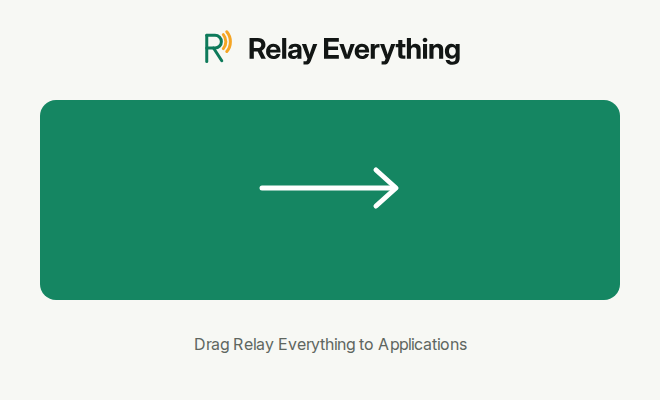
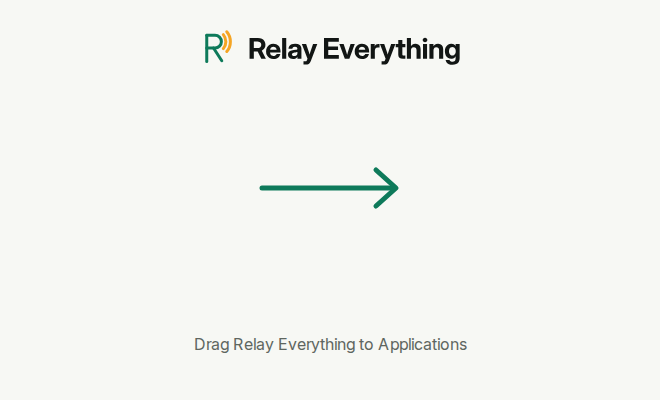
The Mac install window stays light paper with a green arrow, and a branch's test copy opens on a Mac

diff --git a/openspec/changes/mac-download-fix-and-installer/review.html b/openspec/changes/mac-download-fix-and-installer/review.html
@@ -485,7 +485,7 @@
   <rect x="452" y="98" width="140" height="8" rx="4" fill="#E3E6DF"/>
   <rect x="452" y="114" width="120" height="8" rx="4" fill="#E3E6DF"/>
 </svg></div></div><figcaption>Drawing</figcaption></figure></div></div></li>
-<li class="item card has-view" id="item-2"><div class="words"><span class="num">2</span><div class="body"><div class="text" data-note="item-2" tabindex="0"><b>The download opens as a Relay Everything window.</b> A fixed-size window with no toolbar or sidebar: the logo at the top, a deep emerald band with the app on the left, an arrow, and Applications on the right, and under it <i>Drag Relay Everything to Applications</i>. The names under the icons stay readable in light and dark mode. The disk shows the Relay Everything icon, not a plain white one. Its colors stay the same in dark mode: the picture is fixed, and only Finder's icon names change. No real picture: the disk image is made only on a Mac build machine, so this is a drawing of it.</div></div></div><div class="view"><div class="stage"><figure class="part" data-kind="draw"><div class="clip"><div class="art pic sketch" data-note="item-2-picture-1" tabindex="0" style="width:46.154em"><svg xmlns="http://www.w3.org/2000/svg" viewBox="0 0 600 364" width="600" height="364">
+<li class="item card has-view" id="item-2"><div class="words"><span class="num">2</span><div class="body"><div class="text" data-note="item-2" tabindex="0"><b>The download opens as a Relay Everything window.</b> A fixed-size window with no toolbar or sidebar: light paper with the logo at the top, the app on the left, a green arrow, and Applications on the right, and under them <i>Drag Relay Everything to Applications</i>. The names under the icons are black and easy to read in light and dark mode. The disk shows the Relay Everything icon, not a plain white one. Its colors stay the same in dark mode: the picture is fixed, and only Finder's icon names change. No real picture: the disk image is made only on a Mac build machine, so this is a drawing of it.</div></div></div><div class="view"><div class="stage"><figure class="part" data-kind="draw"><div class="clip"><div class="art pic sketch" data-note="item-2-picture-1" tabindex="0" style="width:46.154em"><svg xmlns="http://www.w3.org/2000/svg" viewBox="0 0 600 364" width="600" height="364">
 <g transform="scale(0.909)">
   <rect width="660" height="400" rx="12" fill="#F7F8F4"/>
   <g transform="translate(232 34) scale(0.75)" fill="none" stroke-linecap="round" stroke-linejoin="round" stroke-width="4">
@@ -493,14 +493,13 @@
     <path d="M36 12a10 10 0 0 1 0 12M40 8a16 16 0 0 1 0 20" stroke="#F5A524"/>
   </g>
   <text x="276" y="58" font-size="20" font-weight="700" fill="#121614">Relay Everything</text>
-  <rect x="40" y="100" width="580" height="200" rx="16" fill="#158662"/>
   <rect x="122" y="140" width="96" height="96" rx="22" fill="#0E7A5A"/>
   <text x="170" y="200" font-size="44" font-weight="700" fill="#FFFFFF" text-anchor="middle">R</text>
-  <text x="170" y="270" font-size="13" fill="#FFFFFF" text-anchor="middle">Relay Everything</text>
-  <path d="M262 188h120" stroke="#FFFFFF" stroke-width="5" stroke-linecap="round"/>
-  <path d="M372 172l18 16-18 16" fill="none" stroke="#FFFFFF" stroke-width="5" stroke-linecap="round" stroke-linejoin="round"/>
+  <text x="170" y="270" font-size="13" fill="#121614" text-anchor="middle">Relay Everything</text>
+  <path d="M262 188h120" stroke="#0E7A5A" stroke-width="5" stroke-linecap="round"/>
+  <path d="M372 172l18 16-18 16" fill="none" stroke="#0E7A5A" stroke-width="5" stroke-linecap="round" stroke-linejoin="round"/>
   <rect x="442" y="148" width="96" height="80" rx="10" fill="#6CB4EE"/>
-  <text x="490" y="270" font-size="13" fill="#FFFFFF" text-anchor="middle">Applications</text>
+  <text x="490" y="270" font-size="13" fill="#121614" text-anchor="middle">Applications</text>
   <text x="330" y="346" font-size="16" fill="#5E6660" text-anchor="middle">Drag Relay Everything to Applications</text>
 </g>
 </svg></div></div><figcaption>Drawing</figcaption></figure></div></div></li>
@@ -524,6 +523,9 @@
 <li class="decision card" id="decision-8" data-note="decision-8" tabindex="0"><p class="meta"><span class="tag assumed">assumed</span>2026-11-16</p>Assumed: the window is 660 by 428, not 660 by 400, because the second look found that Finder's window size counts the title bar, which would cut the bottom of the background. Task 3.2's screenshot confirms it.</li>
 <li class="decision card" id="decision-9" data-note="decision-9" tabindex="0"><p class="meta"><span class="tag log">log</span>2026-11-16</p>Saved for the Mac check: all tasks but 3.2 are done; the pull request's build makes the unsigned disk image that 3.2 checks on a Mac.</li>
 <li class="decision card" id="decision-10" data-note="decision-10" tabindex="0"><p class="meta"><span class="tag check">check</span>2026-11-16</p>Check: <code>.github/workflows/mobile-macos.yml</code> changes the Mac build's steps but loosens no check: dmgbuild replaces <code>hdiutil create</code>, and a branch keeps the unsigned disk image in place of the zip, still with <code>if-no-files-found: error</code>; the signing, Apple's check, the staple and <code>mac-check</code> are unchanged.</li>
+<li class="decision card" id="decision-11" data-note="decision-11" tabindex="0"><p class="meta"><span class="tag asked">asked</span>2026-11-16</p>Asked nothing: Matthew's Mac check showed the green band hid the green app icon and made the names hard to read, and that Finder drew the names black in dark mode on this light-topped picture. So the band is gone: all paper, a green arrow, black names in both modes.</li>
+<li class="decision card" id="decision-12" data-note="decision-12" tabindex="0"><p class="meta"><span class="tag log">log</span>2026-11-16</p>Matthew's Mac check showed the unsigned test copy would not open (<code>different Team IDs</code>): a branch now signs every part ad hoc, with no hardened runtime. The signed build is unchanged.</li>
+<li class="decision card" id="decision-13" data-note="decision-13" tabindex="0"><p class="meta"><span class="tag check">check</span>2026-11-16</p>Check: <code>.github/workflows/mobile-macos.yml</code> signs a branch's copy ad hoc with no hardened runtime, because macOS refuses ad hoc frameworks under it; the copy goes nowhere, and main's and a release's signing keep the hardened runtime.</li>
 </ol>
 </section>
 <section id="notes" aria-labelledby="notes-h"><h2 id="notes-h">Your notes</h2>

diff --git a/openspec/changes/mac-download-fix-and-installer/proposal.md b/openspec/changes/mac-download-fix-and-installer/proposal.md
@@ -31,7 +31,7 @@ The Mac app opens to a black window and never shows a note: it can not read its 
   </svg>
   ```
   No real picture: the Mac app runs only on a Mac, and this computer is not one.
-- **The download opens as a Relay Everything window.** A fixed-size window with no toolbar or sidebar: the logo at the top, a deep emerald band with the app on the left, an arrow, and Applications on the right, and under it *Drag Relay Everything to Applications*. The names under the icons stay readable in light and dark mode. The disk shows the Relay Everything icon, not a plain white one. Its colors stay the same in dark mode: the picture is fixed, and only Finder's icon names change.
+- **The download opens as a Relay Everything window.** A fixed-size window with no toolbar or sidebar: light paper with the logo at the top, the app on the left, a green arrow, and Applications on the right, and under them *Drag Relay Everything to Applications*. The names under the icons are black and easy to read in light and dark mode. The disk shows the Relay Everything icon, not a plain white one. Its colors stay the same in dark mode: the picture is fixed, and only Finder's icon names change.
   ```svg
   <svg xmlns="http://www.w3.org/2000/svg" viewBox="0 0 600 364" width="600" height="364">
   <g transform="scale(0.909)">
@@ -41,14 +41,13 @@ The Mac app opens to a black window and never shows a note: it can not read its 
       <path d="M36 12a10 10 0 0 1 0 12M40 8a16 16 0 0 1 0 20" stroke="#F5A524"/>
     </g>
     <text x="276" y="58" font-size="20" font-weight="700" fill="#121614">Relay Everything</text>
-    <rect x="40" y="100" width="580" height="200" rx="16" fill="#158662"/>
     <rect x="122" y="140" width="96" height="96" rx="22" fill="#0E7A5A"/>
     <text x="170" y="200" font-size="44" font-weight="700" fill="#FFFFFF" text-anchor="middle">R</text>
-    <text x="170" y="270" font-size="13" fill="#FFFFFF" text-anchor="middle">Relay Everything</text>
-    <path d="M262 188h120" stroke="#FFFFFF" stroke-width="5" stroke-linecap="round"/>
-    <path d="M372 172l18 16-18 16" fill="none" stroke="#FFFFFF" stroke-width="5" stroke-linecap="round" stroke-linejoin="round"/>
+    <text x="170" y="270" font-size="13" fill="#121614" text-anchor="middle">Relay Everything</text>
+    <path d="M262 188h120" stroke="#0E7A5A" stroke-width="5" stroke-linecap="round"/>
+    <path d="M372 172l18 16-18 16" fill="none" stroke="#0E7A5A" stroke-width="5" stroke-linecap="round" stroke-linejoin="round"/>
     <rect x="442" y="148" width="96" height="80" rx="10" fill="#6CB4EE"/>
-    <text x="490" y="270" font-size="13" fill="#FFFFFF" text-anchor="middle">Applications</text>
+    <text x="490" y="270" font-size="13" fill="#121614" text-anchor="middle">Applications</text>
     <text x="330" y="346" font-size="16" fill="#5E6660" text-anchor="middle">Drag Relay Everything to Applications</text>
   </g>
   </svg>
@@ -75,7 +74,7 @@ The Mac app opens to a black window and never shows a note: it can not read its 
 - New `mobile/macos/dmg/settings.py` (dmgbuild layout) and `mobile/macos/dmg/make-dmg.sh`.
 - Overlaps the mac-app-updates plan in `mobile-macos.yml` and `install.md`: the dmgbuild `.dmg` is the one file its update feed and the website give; the second to land takes in the other's lines.
 - `.github/workflows/mobile-macos.yml`: makes the disk image with dmgbuild on every run; a branch keeps the unsigned image in place of the zip.
-- Docs: `mobile/README.md` (the Mac build), `wiki/brand.md` (the script's new output and the band color), the website's Mac install step (`site/src/content/docs/start/install.md`).
+- Docs: `mobile/README.md` (the Mac build), `wiki/brand.md` (the script's new output, and why it stays light), the website's Mac install step (`site/src/content/docs/start/install.md`).
 
 ## Decision log
 
@@ -89,3 +88,6 @@ The Mac app opens to a black window and never shows a note: it can not read its 
 - **2026-11-16** — Assumed: the window is 660 by 428, not 660 by 400, because the second look found that Finder's window size counts the title bar, which would cut the bottom of the background. Task 3.2's screenshot confirms it.
 - **2026-11-16** — Saved for the Mac check: all tasks but 3.2 are done; the pull request's build makes the unsigned disk image that 3.2 checks on a Mac.
 - **2026-11-16** — Check: `.github/workflows/mobile-macos.yml` changes the Mac build's steps but loosens no check: dmgbuild replaces `hdiutil create`, and a branch keeps the unsigned disk image in place of the zip, still with `if-no-files-found: error`; the signing, Apple's check, the staple and `mac-check` are unchanged.
+- **2026-11-16** — Asked nothing: Matthew's Mac check showed the green band hid the green app icon and made the names hard to read, and that Finder drew the names black in dark mode on this light-topped picture. So the band is gone: all paper, a green arrow, black names in both modes.
+- **2026-11-16** — Matthew's Mac check showed the unsigned test copy would not open (`different Team IDs`): a branch now signs every part ad hoc, with no hardened runtime. The signed build is unchanged.
+- **2026-11-16** — Check: `.github/workflows/mobile-macos.yml` signs a branch's copy ad hoc with no hardened runtime, because macOS refuses ad hoc frameworks under it; the copy goes nowhere, and main's and a release's signing keep the hardened runtime.

diff --git a/openspec/changes/mac-download-fix-and-installer/design.md b/openspec/changes/mac-download-fix-and-installer/design.md
@@ -39,10 +39,10 @@ The plan *mac-app-updates* (chat "The Mac app updates itself, and the website's 
 
 ### Draw the background with the brand script
 
-`brand/make-icons.mjs` writes `mobile/macos/dmg/background.png` (660 by 400) and `background@2x.png` (1320 by 800), drawn by the same headless Chromium from an SVG: paper `#F7F8F4`; at the top, the mark in accent-text with spark waves beside the wordmark outline from `brand/logo.svg` (no font needed); a band at y 100 to 300 with 16 corners in the band green; a white arrow between the two icon spots; and *Drag Relay Everything to Applications* in muted, Inter 16, from `mobile/assets/fonts/inter/InterVariable.ttf` through `@font-face`. dmgbuild combines the PNG and its `@2x` into one multi-resolution picture.
+`brand/make-icons.mjs` writes `mobile/macos/dmg/background.png` (660 by 400) and `background@2x.png` (1320 by 800), drawn by the same headless Chromium from an SVG: paper `#F7F8F4`; at the top, the mark in accent-text with spark waves beside the wordmark outline from `brand/logo.svg` (no font needed); an accent arrow between the two icon spots; and *Drag Relay Everything to Applications* in muted, Inter 16, from `mobile/assets/fonts/inter/InterVariable.ttf` through `@font-face`. dmgbuild combines the PNG and its `@2x` into one multi-resolution picture.
 
-- **Band green `#158662`.** Finder draws icon names white in dark mode and black in light mode, whatever is behind them. `#158662` gives 4.55 to 1 with white and 4.62 to 1 with black. The script throws, naming the ratio, when the band color drops below 4.5 to 1 with either. Matthew chose the band on 2026-11-16.
-- *One bright thing:* the spark stays only in the mark's waves; the arrow is white, not spark.
+- **All paper, no band.** Finder picks the icon names' color from the picture: on Matthew's Mac in dark mode it wrote them black on this light picture. A first try put a `#158662` band behind the icons; on the Mac it hid the green app icon and the black names were hard to read, so it went. The script throws if paper is too dark for black names.
+- *One bright thing:* the spark stays only in the mark's waves; the arrow is accent, the drag being the one main action.
 
 ## UX
 
@@ -64,11 +64,12 @@ One action: the drag. The arrow and the one line of words point to it; the logo 
 
 ### Components
 
-No app parts. The background reuses the brand mark, the wordmark outline and the Emerald tokens; the band green is new, only in this picture, for the label-contrast reason above.
+No app parts. The background reuses the brand mark, the wordmark outline and the Emerald tokens; no new color.
 
 ## Risks / Trade-offs
 
-- [Finder's real label colors are slightly softer than pure white and black] → the band is centered between them, and the apply step checks a screenshot of the window in both modes from the pull request's image.
+- [A future macOS could draw the names white in dark mode on any picture] → the names would be faint on paper; the Mac check after each change to the window looks at both modes.
+- [A branch's copy is signed ad hoc, not with the Developer ID] → it opens only after the person allows it (`xattr -dr com.apple.quarantine` or *Open Anyway*); it goes nowhere.
 - [dmgbuild's layout depends on Finder reading its `.DS_Store`; a new macOS could change how] → it is the common tool for this, used by many Mac apps; the window still opens with both icons if the layout is ignored.
 - [Six keychain reads where one was] → none a person sees.
 

diff --git a/openspec/changes/mac-download-fix-and-installer/tasks.md b/openspec/changes/mac-download-fix-and-installer/tasks.md
@@ -8,11 +8,12 @@
 
 ## 2. The install window
 
-- [x] 2.1 In `brand/make-icons.mjs`, draw `mobile/macos/dmg/background.png` and `background@2x.png` as the design says, and throw when the band green is under 4.5 to 1 with white or black; run `node brand/make-icons.mjs` twice and verify the second run changes nothing and the picture matches the plan's drawing.
+- [x] 2.1 In `brand/make-icons.mjs`, draw `mobile/macos/dmg/background.png` and `background@2x.png` as the design says, all paper with an accent arrow and no band, and throw when paper is too dark for Finder's black names; run `node brand/make-icons.mjs` twice and verify the second run changes nothing and the picture matches the plan's drawing.
 - [x] 2.2 Add `mobile/macos/dmg/settings.py` (the dmgbuild layout) and `mobile/macos/dmg/make-dmg.sh <app> <dmg>`; verify `bash -n` passes on the script and `python3 -m py_compile` on the settings.
 - [x] 2.3 In `.github/workflows/mobile-macos.yml`, install a pinned dmgbuild, make the image with `make-dmg.sh` in the signed step in place of `hdiutil create`, and on a branch make and keep the unsigned image in place of the zip; verify `actionlint` passes, or the YAML parses if it is missing.
 - [x] 2.4 If mac-app-updates landed first, take in its lines: make the image with `make-dmg.sh` after Sparkle's helpers and the app are signed, and give that one signed, notarised `Relay-Everything-Mac.dmg` to the update feed, the `mac-updates` release and the website; if this plan lands first, leave a note in that plan's chat. Verify `grep -n "hdiutil create" .github/workflows/mobile-macos.yml` finds nothing and the feed step reads the same `$DMG`.
-- [x] 2.5 Update `wiki/brand.md` (the script also writes the install window's background; the band green and its reason), the Mac build bullets in `mobile/README.md` (a branch keeps the unsigned disk image; dmgbuild makes the window), and step 2 of the Mac section in `site/src/content/docs/start/install.md` (the window shows the app and Applications); verify `node scripts/product-name.test.mjs` passes.
+- [x] 2.5 Update `wiki/brand.md` (the script also writes the install window's background, and why it stays light), the Mac build bullets in `mobile/README.md` (a branch keeps the unsigned disk image; dmgbuild makes the window), and step 2 of the Mac section in `site/src/content/docs/start/install.md` (the window shows the app and Applications); verify `node scripts/product-name.test.mjs` passes.
+- [x] 2.6 Sign a branch's copy ad hoc in every part, with no hardened runtime, so it opens on a Mac; verify `node --test scripts/app-release.test.mjs` passes.
 
 ## 3. Checks
 

diff --git a/wiki/brand.md b/wiki/brand.md
@@ -19,7 +19,7 @@ The mark is *Signal R*: a capital R on a 48 by 48 grid, in round strokes 4 units
 - **Rerun the icon script** after a change to `brand/mark.svg` or to a brand color: `node brand/make-icons.mjs`, then commit what it writes. It writes `brand/icon.svg`, `brand/logo.svg`, the website's two top-bar marks and its favicon, every iPhone icon size, every Android density, the Android adaptive icon, both launch marks and the Mac install window's background. Headless Chromium draws, because ImageMagick's own SVG renderer drops paths: set `RELAY_CHROME` if it finds no Chromium. Never edit a file it writes by hand: the next run replaces it. A second run changes nothing.
 - **The app draws the mark in code** (`RelayMark` in [`mobile/lib/brand.dart`](../mobile/lib/brand.dart)), with the same paths. A change to the mark changes both.
 - **The website uses** `site/src/assets/relay-mark.svg` (light) and `relay-mark-dark.svg` in the top bar, and the icon with round corners as `site/public/favicon.svg`. The script writes all three.
-- **The Mac install window** is the picture behind the Mac disk image's Finder window: `mobile/macos/dmg/background.png`, 660 by 400, and its `@2x`. It has the logo on paper at the top, a band in `#158662` behind the app and *Applications*, a white arrow between them, and *Drag Relay Everything to Applications* in muted Inter. Finder writes the icon names over it in white in dark mode and in black in light mode, so the band must give 4.5 to 1 or more with both: `#158662` gives 4.55 and 4.62. The script stops, and names the ratio, when the band color drops below. The band color is only in this picture, not a token. [The Mac build](../mobile/README.md#the-mac-app) makes the disk image.
+- **The Mac install window** is the picture behind the Mac disk image's Finder window: `mobile/macos/dmg/background.png`, 660 by 400, and its `@2x`. It is all paper: the logo at the top, the app and *Applications* on paper, an accent arrow between them, and *Drag Relay Everything to Applications* in muted Inter. Keep it light, with no colored band: Finder picks the icon names' color from the picture, and writes them black on a light one, in dark mode too. A green band hid the green app icon and made the names hard to read (2026-11-16). [The Mac build](../mobile/README.md#the-mac-app) makes the disk image.
 - **The icon stays still.** Only the sync dot moves, and only while waiting notes send: [words with every color](#rules-for-every-screen).
 
 ## Colors

diff --git a/mobile/README.md b/mobile/README.md
@@ -149,7 +149,7 @@ The Mac app is this app, built for macOS from its own entry, [`lib/main_mac.dart
 
 **How it is built and signed.** [`mobile-macos.yml`](../.github/workflows/mobile-macos.yml) runs from `mobile-ci.yml`, beside the iPhone build:
 
-- **A branch or pull request** builds the app unsigned and keeps it with the run as `Relay-Everything-Mac.dmg`, the same install window as a release's, so you can check the window before it goes out. It sends nothing.
+- **A branch or pull request** builds the app, signs every part ad hoc with no hardened runtime, and keeps it with the run as `Relay-Everything-Mac.dmg`, the same install window as a release's, so you can check the window before it goes out. It sends nothing. To open its app, run `xattr -dr com.apple.quarantine "/Applications/Relay Everything.app"`, or click *Open Anyway* in System Settings → Privacy & Security: since macOS 15, right-click *Open* no longer does it.
 - **The install window:** [`macos/dmg/make-dmg.sh`](macos/dmg/make-dmg.sh) makes every disk image with [dmgbuild](https://github.com/dmgbuild/dmgbuild), pinned in the workflow. dmgbuild writes the window's layout from [`macos/dmg/settings.py`](macos/dmg/settings.py) with no Finder, so it runs on a build machine with no person. The background, `macos/dmg/background.png` and its `@2x`, comes from `node brand/make-icons.mjs`: [the brand](../wiki/brand.md#the-logo).
 - **`main` and a release** sign the app with the hardened runtime and a Developer ID Application certificate, make `Relay-Everything-Mac.dmg` and sign it, then send it to Apple's check (notarize) with the App Store Connect key and staple Apple's ticket. `node scripts/app-release.mjs mac-check --file Relay-Everything-Mac.dmg` refuses a file that is not signed, checked and stapled. A beta adds the file to its pre-release, and a `v` tag to its release.
 - **The certificate:** Apple lets only the Account Holder make a Developer ID Application certificate, so `node scripts/ios-signing-cert.mjs --mac` with the App Store Connect key gets `result=refused` and names the page where the Account Holder makes it by hand. Export it with its key as a `.p12`, and save it as `MACOS_DEVID_CERT_P12` and `MACOS_DEVID_CERT_PASSWORD` in `.env` and the GitHub secrets. With them missing, `main` builds no file, with a notice, and a release stops with their names.

diff --git a/openspec/changes/mac-download-fix-and-installer/specs/relay-mac-app/spec.md b/openspec/changes/mac-download-fix-and-installer/specs/relay-mac-app/spec.md
@@ -16,7 +16,7 @@ The Mac app SHALL show its notes window on every open: on the first open with no
 
 ### Requirement: The Mac download opens as a Relay Everything install window
 
-The Mac disk image SHALL open as a fixed-size Finder window with no toolbar or sidebar, on a background in the Relay Everything brand: the logo, the app and Applications on a deep emerald band with an arrow from the app to Applications, and the words *Drag Relay Everything to Applications*. The band color SHALL give the names under the icons a contrast of 4.5 to 1 or more with both white and black text, so they read in light and dark mode. The disk SHALL show the Relay Everything icon. A pull request's unsigned Mac build SHALL be the same disk image.
+The Mac disk image SHALL open as a fixed-size Finder window with no toolbar or sidebar, on a background in the Relay Everything brand: light paper with the logo, the app and Applications, an arrow from the app to Applications, and the words *Drag Relay Everything to Applications*. The background SHALL stay light behind the icons, so Finder writes their names in black, readable in light and dark mode, and the app's green icon stands out. The disk SHALL show the Relay Everything icon. A pull request's unsigned Mac build SHALL be the same disk image, and its app SHALL open on a Mac once the person allows it.
 
 #### Scenario: Open the download
 
@@ -26,4 +26,4 @@ The Mac disk image SHALL open as a fixed-size Finder window with no toolbar or s
 #### Scenario: Dark mode
 
 - **WHEN** the person's Mac is in dark mode and opens the download
-- **THEN** the names *Relay Everything* and *Applications* read clearly on the emerald band
+- **THEN** the names *Relay Everything* and *Applications* read clearly, in black, and the app's icon stands out from the background
